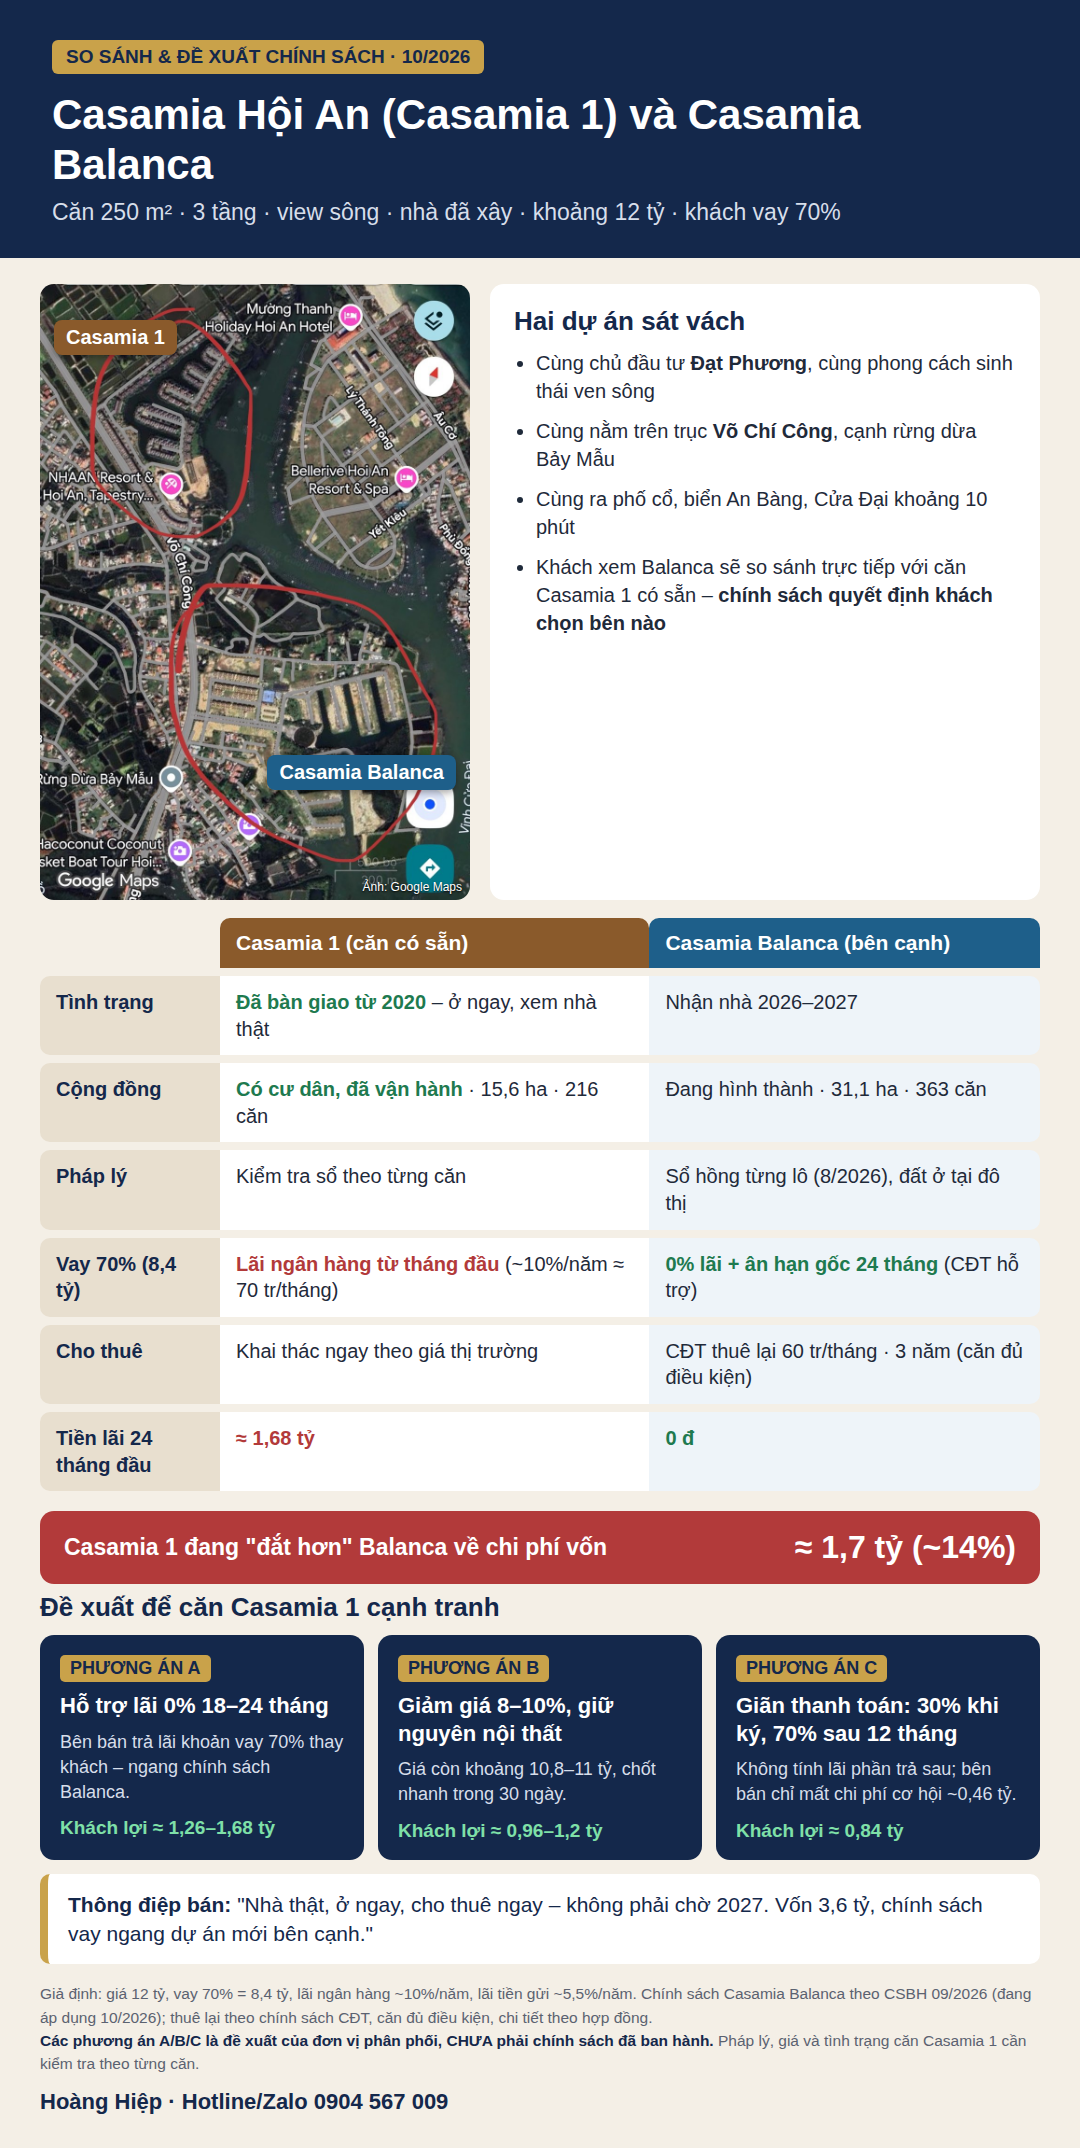
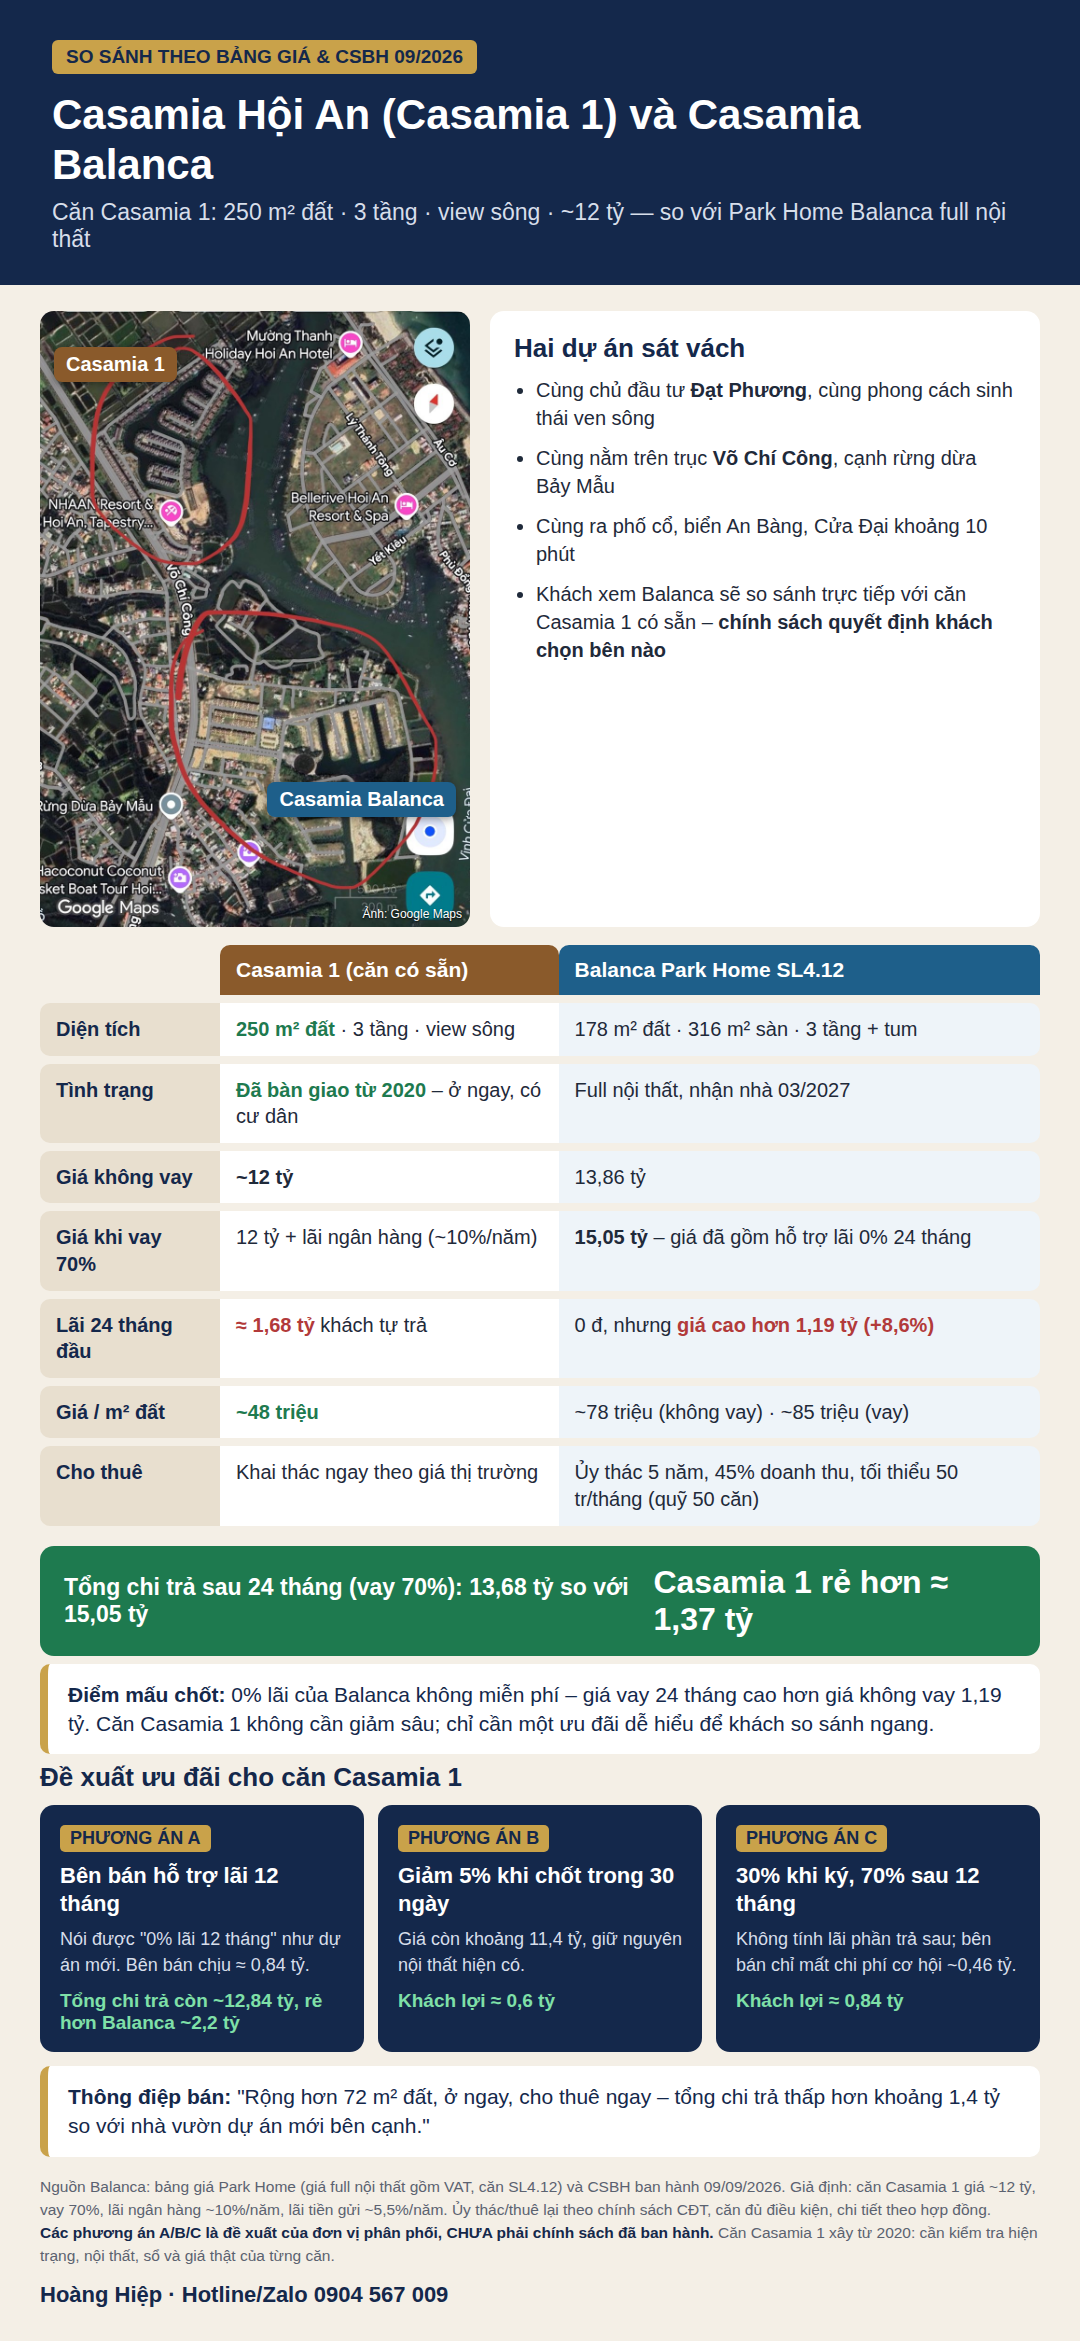
So sánh Casamia 1 và Balanca theo bảng giá Park Home và CSBH 09/2026 chính thức: hỗ trợ lãi 0% đã tính vào giá vay; sửa dòng lãi 11% thanh toán sớm
Claude-Session: https://claude.ai/code/session_01HmyEbdbXqQDqkrDarxvDhG

diff --git a/livechat/xuat-ban/hinh/casamia1-vs-balanca.html b/livechat/xuat-ban/hinh/casamia1-vs-balanca.html
@@ -38,9 +38,9 @@ td.b{border-radius:0 10px 10px 0;background:#eef4f9}
 .ct{margin-top:10px;font-size:22px;color:#14284b;font-weight:700}
 </style></head><body>
 <div class="h">
-  <span class="tag">SO SÁNH & ĐỀ XUẤT CHÍNH SÁCH · 10/2026</span>
+  <span class="tag">SO SÁNH THEO BẢNG GIÁ & CSBH 09/2026</span>
   <h1>Casamia Hội An (Casamia 1) và Casamia Balanca</h1>
-  <p>Căn 250 m² · 3 tầng · view sông · nhà đã xây · khoảng 12 tỷ · khách vay 70%</p>
+  <p>Căn Casamia 1: 250 m² đất · 3 tầng · view sông · ~12 tỷ — so với Park Home Balanca full nội thất</p>
 </div>
 <div class="w">
 <div class="map">
@@ -53,27 +53,29 @@ td.b{border-radius:0 10px 10px 0;background:#eef4f9}
   </ul></div>
 </div>
 <table>
-<tr><th style="background:transparent"></th><th class="a">Casamia 1 (căn có sẵn)</th><th class="b">Casamia Balanca (bên cạnh)</th></tr>
-<tr><td class="k">Tình trạng</td><td><span class="good">Đã bàn giao từ 2020</span> – ở ngay, xem nhà thật</td><td class="b">Nhận nhà 2026–2027</td></tr>
-<tr><td class="k">Cộng đồng</td><td><span class="good">Có cư dân, đã vận hành</span> · 15,6 ha · 216 căn</td><td class="b">Đang hình thành · 31,1 ha · 363 căn</td></tr>
-<tr><td class="k">Pháp lý</td><td>Kiểm tra sổ theo từng căn</td><td class="b">Sổ hồng từng lô (8/2026), đất ở tại đô thị</td></tr>
-<tr><td class="k">Vay 70% (8,4 tỷ)</td><td><span class="bad">Lãi ngân hàng từ tháng đầu</span> (~10%/năm ≈ 70 tr/tháng)</td><td class="b"><span class="good">0% lãi + ân hạn gốc 24 tháng</span> (CĐT hỗ trợ)</td></tr>
-<tr><td class="k">Cho thuê</td><td>Khai thác ngay theo giá thị trường</td><td class="b">CĐT thuê lại 60 tr/tháng · 3 năm (căn đủ điều kiện)</td></tr>
-<tr><td class="k">Tiền lãi 24 tháng đầu</td><td><span class="bad">≈ 1,68 tỷ</span></td><td class="b"><span class="good">0 đ</span></td></tr>
+<tr><th style="background:transparent"></th><th class="a">Casamia 1 (căn có sẵn)</th><th class="b">Balanca Park Home SL4.12</th></tr>
+<tr><td class="k">Diện tích</td><td><span class="good">250 m² đất</span> · 3 tầng · view sông</td><td class="b">178 m² đất · 316 m² sàn · 3 tầng + tum</td></tr>
+<tr><td class="k">Tình trạng</td><td><span class="good">Đã bàn giao từ 2020</span> – ở ngay, có cư dân</td><td class="b">Full nội thất, nhận nhà 03/2027</td></tr>
+<tr><td class="k">Giá không vay</td><td><b>~12 tỷ</b></td><td class="b">13,86 tỷ</td></tr>
+<tr><td class="k">Giá khi vay 70%</td><td>12 tỷ + lãi ngân hàng (~10%/năm)</td><td class="b"><b>15,05 tỷ</b> – giá đã gồm hỗ trợ lãi 0% 24 tháng</td></tr>
+<tr><td class="k">Lãi 24 tháng đầu</td><td><span class="bad">≈ 1,68 tỷ</span> khách tự trả</td><td class="b">0 đ, nhưng <span class="bad">giá cao hơn 1,19 tỷ (+8,6%)</span></td></tr>
+<tr><td class="k">Giá / m² đất</td><td><span class="good">~48 triệu</span></td><td class="b">~78 triệu (không vay) · ~85 triệu (vay)</td></tr>
+<tr><td class="k">Cho thuê</td><td>Khai thác ngay theo giá thị trường</td><td class="b">Ủy thác 5 năm, 45% doanh thu, tối thiểu 50 tr/tháng (quỹ 50 căn)</td></tr>
 </table>
-<div class="gap">Casamia 1 đang "đắt hơn" Balanca về chi phí vốn <span>≈ 1,7 tỷ (~14%)</span></div>
+<div class="gap" style="background:#1e7a4f">Tổng chi trả sau 24 tháng (vay 70%): 13,68 tỷ so với 15,05 tỷ <span>Casamia 1 rẻ hơn ≈ 1,37 tỷ</span></div>
+<div class="msg" style="margin-top:8px"><b>Điểm mấu chốt:</b> 0% lãi của Balanca không miễn phí – giá vay 24 tháng cao hơn giá không vay 1,19 tỷ. Căn Casamia 1 không cần giảm sâu; chỉ cần một ưu đãi dễ hiểu để khách so sánh ngang.</div>
 
-<h2>Đề xuất để căn Casamia 1 cạnh tranh</h2>
+<h2>Đề xuất ưu đãi cho căn Casamia 1</h2>
 <div class="opts">
-  <div class="o"><span class="l">PHƯƠNG ÁN A</span><h3>Hỗ trợ lãi 0% 18–24 tháng</h3><p>Bên bán trả lãi khoản vay 70% thay khách – ngang chính sách Balanca.</p><div class="v">Khách lợi ≈ 1,26–1,68 tỷ</div></div>
-  <div class="o"><span class="l">PHƯƠNG ÁN B</span><h3>Giảm giá 8–10%, giữ nguyên nội thất</h3><p>Giá còn khoảng 10,8–11 tỷ, chốt nhanh trong 30 ngày.</p><div class="v">Khách lợi ≈ 0,96–1,2 tỷ</div></div>
-  <div class="o"><span class="l">PHƯƠNG ÁN C</span><h3>Giãn thanh toán: 30% khi ký, 70% sau 12 tháng</h3><p>Không tính lãi phần trả sau; bên bán chỉ mất chi phí cơ hội ~0,46 tỷ.</p><div class="v">Khách lợi ≈ 0,84 tỷ</div></div>
+  <div class="o"><span class="l">PHƯƠNG ÁN A</span><h3>Bên bán hỗ trợ lãi 12 tháng</h3><p>Nói được "0% lãi 12 tháng" như dự án mới. Bên bán chịu ≈ 0,84 tỷ.</p><div class="v">Tổng chi trả còn ~12,84 tỷ, rẻ hơn Balanca ~2,2 tỷ</div></div>
+  <div class="o"><span class="l">PHƯƠNG ÁN B</span><h3>Giảm 5% khi chốt trong 30 ngày</h3><p>Giá còn khoảng 11,4 tỷ, giữ nguyên nội thất hiện có.</p><div class="v">Khách lợi ≈ 0,6 tỷ</div></div>
+  <div class="o"><span class="l">PHƯƠNG ÁN C</span><h3>30% khi ký, 70% sau 12 tháng</h3><p>Không tính lãi phần trả sau; bên bán chỉ mất chi phí cơ hội ~0,46 tỷ.</p><div class="v">Khách lợi ≈ 0,84 tỷ</div></div>
 </div>
-<div class="msg"><b>Thông điệp bán:</b> "Nhà thật, ở ngay, cho thuê ngay – không phải chờ 2027. Vốn 3,6 tỷ, chính sách vay ngang dự án mới bên cạnh."</div>
+<div class="msg"><b>Thông điệp bán:</b> "Rộng hơn 72 m² đất, ở ngay, cho thuê ngay – tổng chi trả thấp hơn khoảng 1,4 tỷ so với nhà vườn dự án mới bên cạnh."</div>
 </div>
 <div class="f">
-  Giả định: giá 12 tỷ, vay 70% = 8,4 tỷ, lãi ngân hàng ~10%/năm, lãi tiền gửi ~5,5%/năm. Chính sách Casamia Balanca theo CSBH 09/2026 (đang áp dụng 10/2026); thuê lại theo chính sách CĐT, căn đủ điều kiện, chi tiết theo hợp đồng.<br>
-  <strong>Các phương án A/B/C là đề xuất của đơn vị phân phối, CHƯA phải chính sách đã ban hành.</strong> Pháp lý, giá và tình trạng căn Casamia 1 cần kiểm tra theo từng căn.
+  Nguồn Balanca: bảng giá Park Home (giá full nội thất gồm VAT, căn SL4.12) và CSBH ban hành 09/09/2026. Giả định: căn Casamia 1 giá ~12 tỷ, vay 70%, lãi ngân hàng ~10%/năm, lãi tiền gửi ~5,5%/năm. Ủy thác/thuê lại theo chính sách CĐT, căn đủ điều kiện, chi tiết theo hợp đồng.<br>
+  <strong>Các phương án A/B/C là đề xuất của đơn vị phân phối, CHƯA phải chính sách đã ban hành.</strong> Căn Casamia 1 xây từ 2020: cần kiểm tra hiện trạng, nội thất, sổ và giá thật của từng căn.
   <div class="ct">Hoàng Hiệp · Hotline/Zalo 0904 567 009</div>
 </div>
 </body></html>

diff --git a/livechat/xuat-ban/hinh/so-sanh-chinh-sach.html b/livechat/xuat-ban/hinh/so-sanh-chinh-sach.html
@@ -41,7 +41,7 @@ td.n b{color:#1e7a4f}
 <tr><th class="k"></th><th class="o">Chính sách hiện hành</th><th class="n">Đề xuất mới</th></tr>
 <tr><td class="k">Hỗ trợ lãi vay 70%</td><td class="o">0% lãi + ân hạn gốc 24 tháng, không quá 31/12/2028</td><td class="n"><b>0% lãi 36 tháng</b>, bỏ mốc 2028 cho khách ký trong quý IV/2026</td></tr>
 <tr><td class="k">Lãi sau hỗ trợ</td><td class="o">Theo ngân hàng (~10%/năm) ≈ 70 tr/tháng tiền lãi</td><td class="n">CĐT bù phần vượt <b>8%/năm</b> năm đầu sau hỗ trợ ≈ 56 tr/tháng</td></tr>
-<tr><td class="k">Trả sớm</td><td class="o">CK 95%: 2% (thô) / 4% (nội thất). Hỗ trợ lãi "theo CS" (bản đầu ghi 11%)</td><td class="n">Giữ CK 95%, <b>công bố lại mức lãi hỗ trợ cụ thể</b> cho phần trả trước hạn</td></tr>
+<tr><td class="k">Trả sớm</td><td class="o">CK 95%: 2% (thô) / 4% (nội thất). Lãi 11%/năm cho phần thanh toán sớm (không vay)</td><td class="n">Giữ CK 95% và lãi 11%; <b>cộng thêm 1% khi chốt trong tháng</b></td></tr>
 <tr><td class="k">Căn đã xây sẵn</td><td class="o">Không có ưu đãi riêng</td><td class="n"><b>CK thêm 1–2%</b> (120–240 tr) hoặc tặng gói nội thất nếu ký trong 30 ngày</td></tr>
 <tr><td class="k">Thuê lại / ủy thác</td><td class="o">CĐT thuê lại 60 tr/tháng · 3 năm, căn đủ điều kiện (hoàn thiện nội thất chuẩn CĐT)</td><td class="n">Giữ nguyên; nội thất tặng kèm giúp căn <b>đủ điều kiện ngay</b> khi nhận nhà</td></tr>
 </table>
